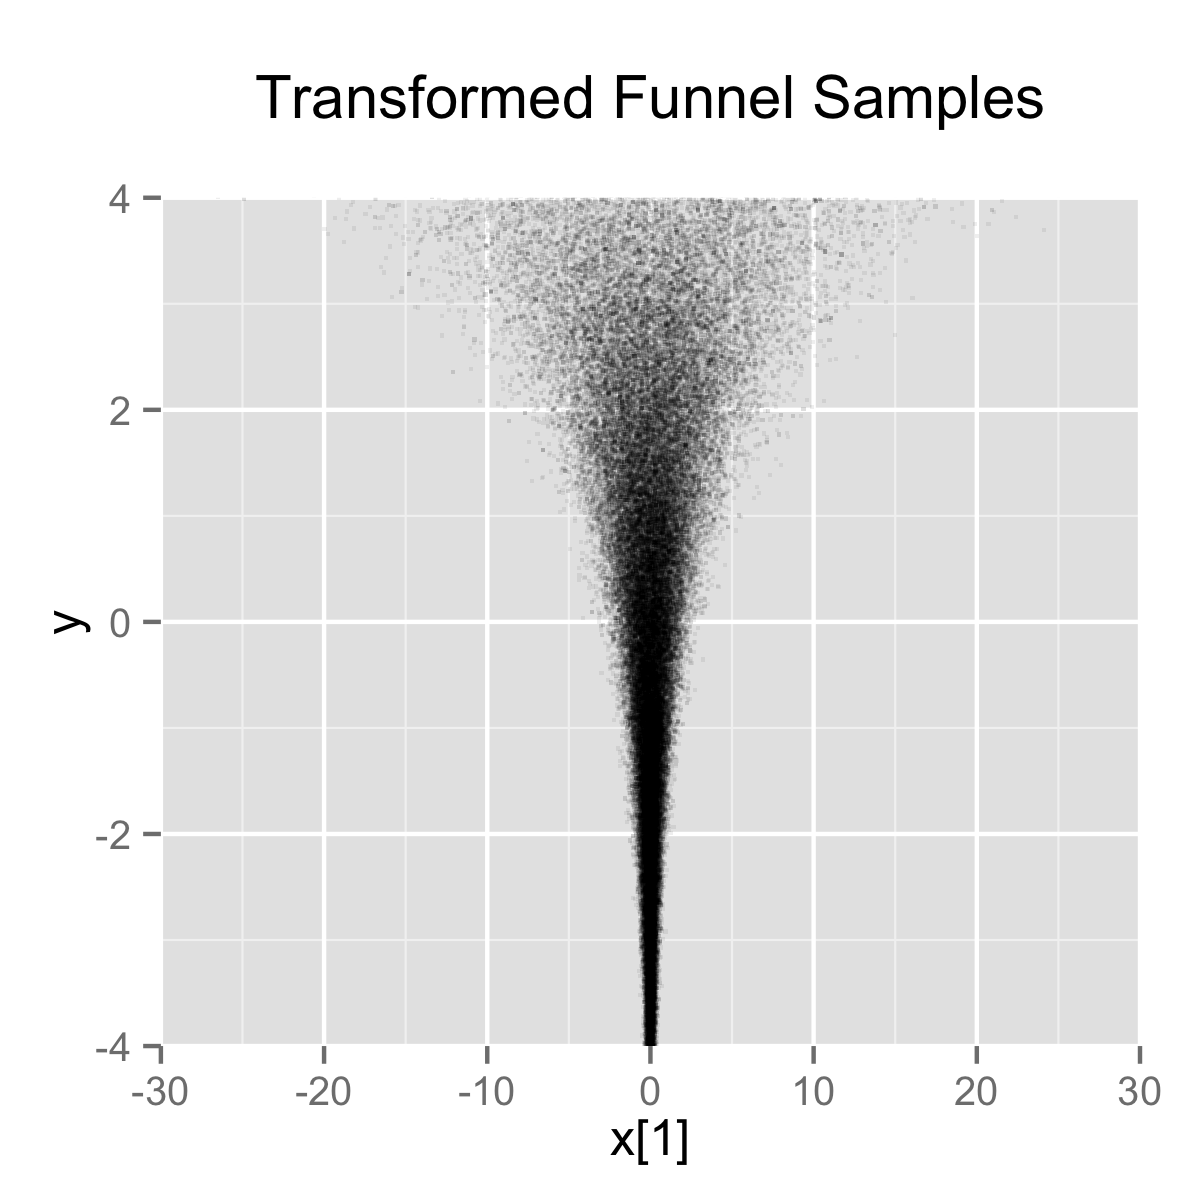
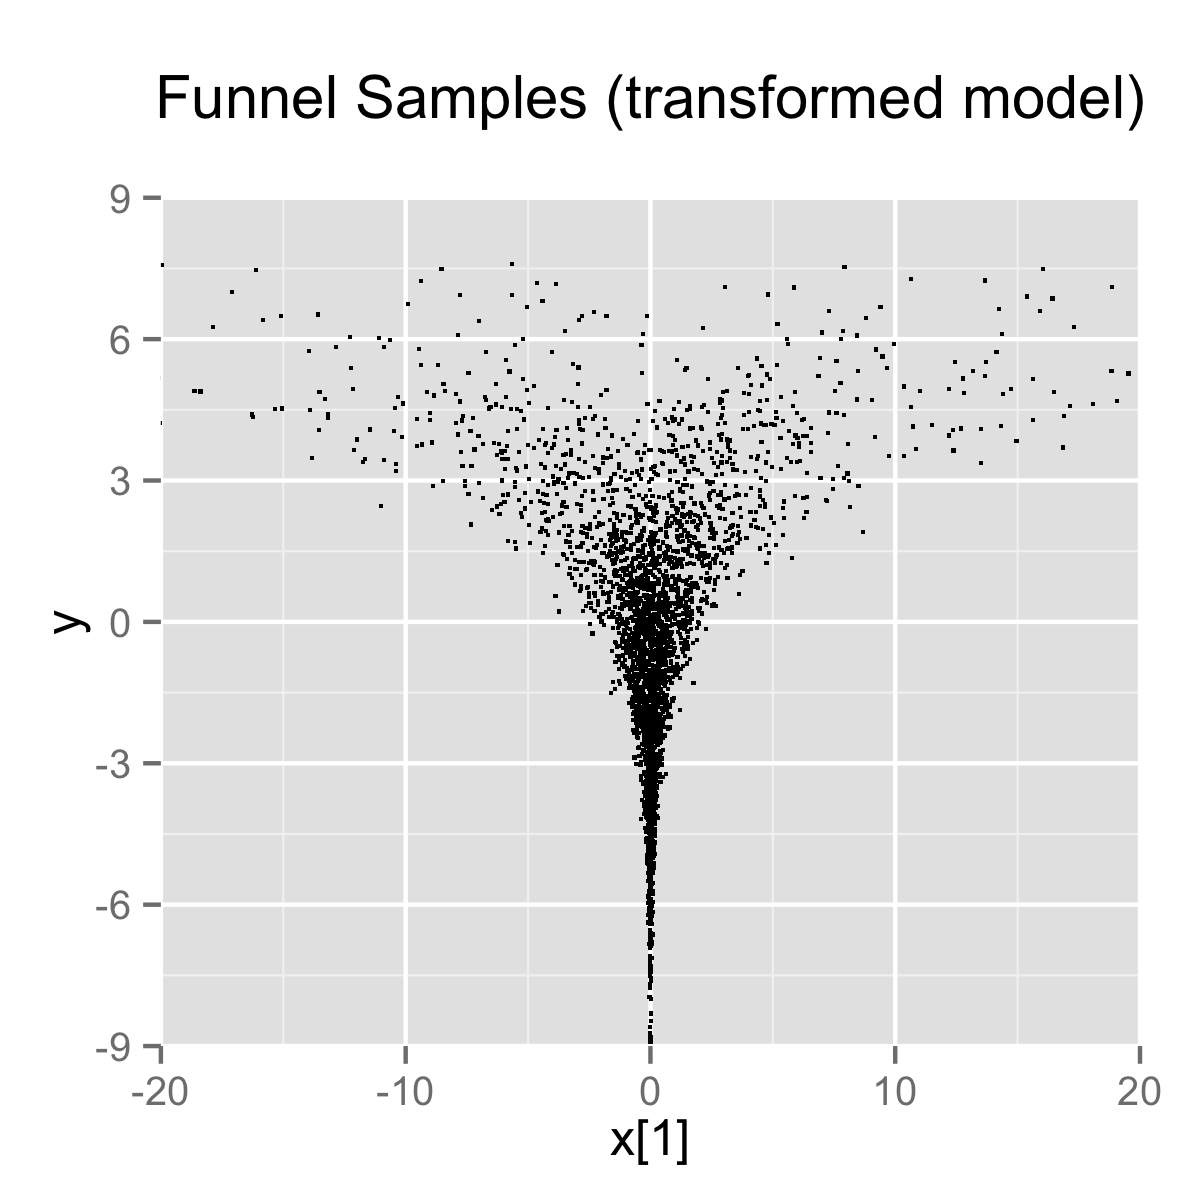
updated funnel density code and text in manual

diff --git a/src/docs/stan-reference/programming.tex b/src/docs/stan-reference/programming.tex
@@ -1543,8 +1543,8 @@ through reparameterization.
   variable $y$ and one lower-level variable $x_1$ (see the text for
   the formula).  The blue region has log density greater
     than -50, the orange region density less than -50, and the gray
-    region density below -200.  (Right) 100,000 samples produced by
-    four chains in Stan.  Both plots are restricted to
+    region density below -200.  (Right) 4000 samples produced by
+    running Stan with default settings.  Both plots are restricted to
     the shown window of $x_1$ and $y$ values; samples were drawn
     outside of this area as would be expected given the density.}\label{funnel.figure}
 \end{figure}
